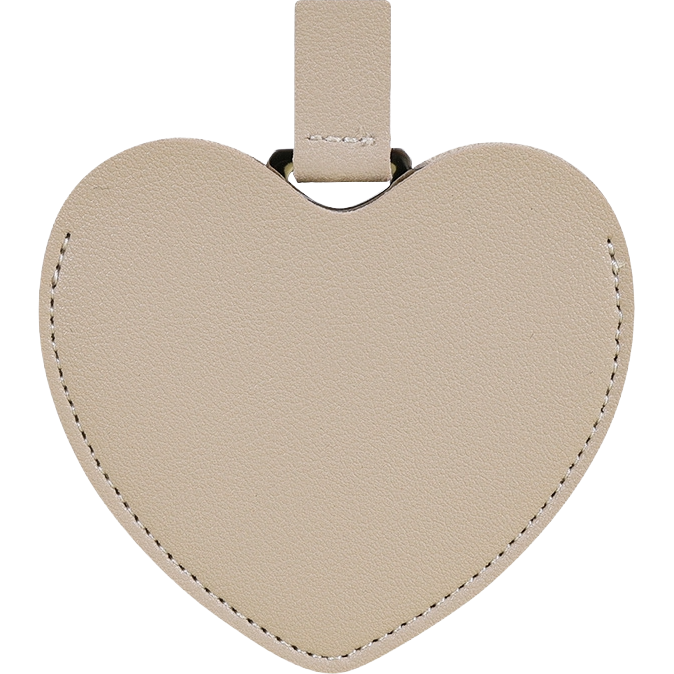
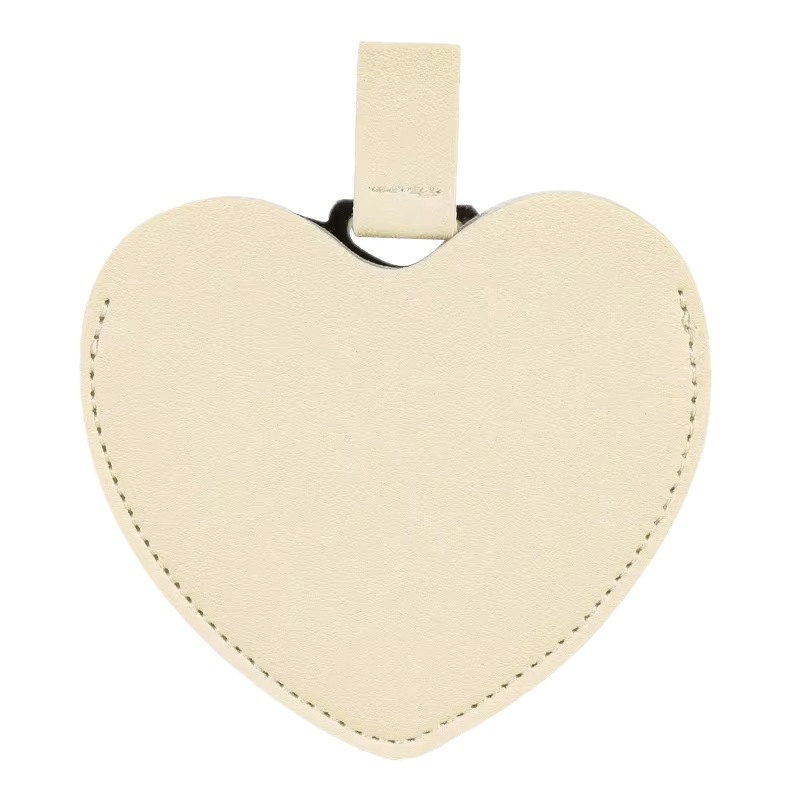
Heart Mirror: Cream is White, new photo (#3)
Claude-Session: https://claude.ai/code/session_013fneamVG5XaCEjEcMQEGR6

diff --git a/rtlh-site/src/data/products.js b/rtlh-site/src/data/products.js
@@ -181,7 +181,7 @@ export const ALL_PRODUCTS = [
       { id: "mint", image: "HeartMirrorBlue" },
       { id: "pink", image: "HeartMirrorPink" },
       { id: "red", image: "HeartMirrorRed" },
-      { id: "cream", image: "HeartMirrorWhite" },
+      { id: "white", image: "HeartMirrorWhite" },
     ],
     aliases: ["Heart Mirrors"],
     personalise: { text: true, maxChars: 18, picture: true, textPrice: 0, picturePrice: 0 },
